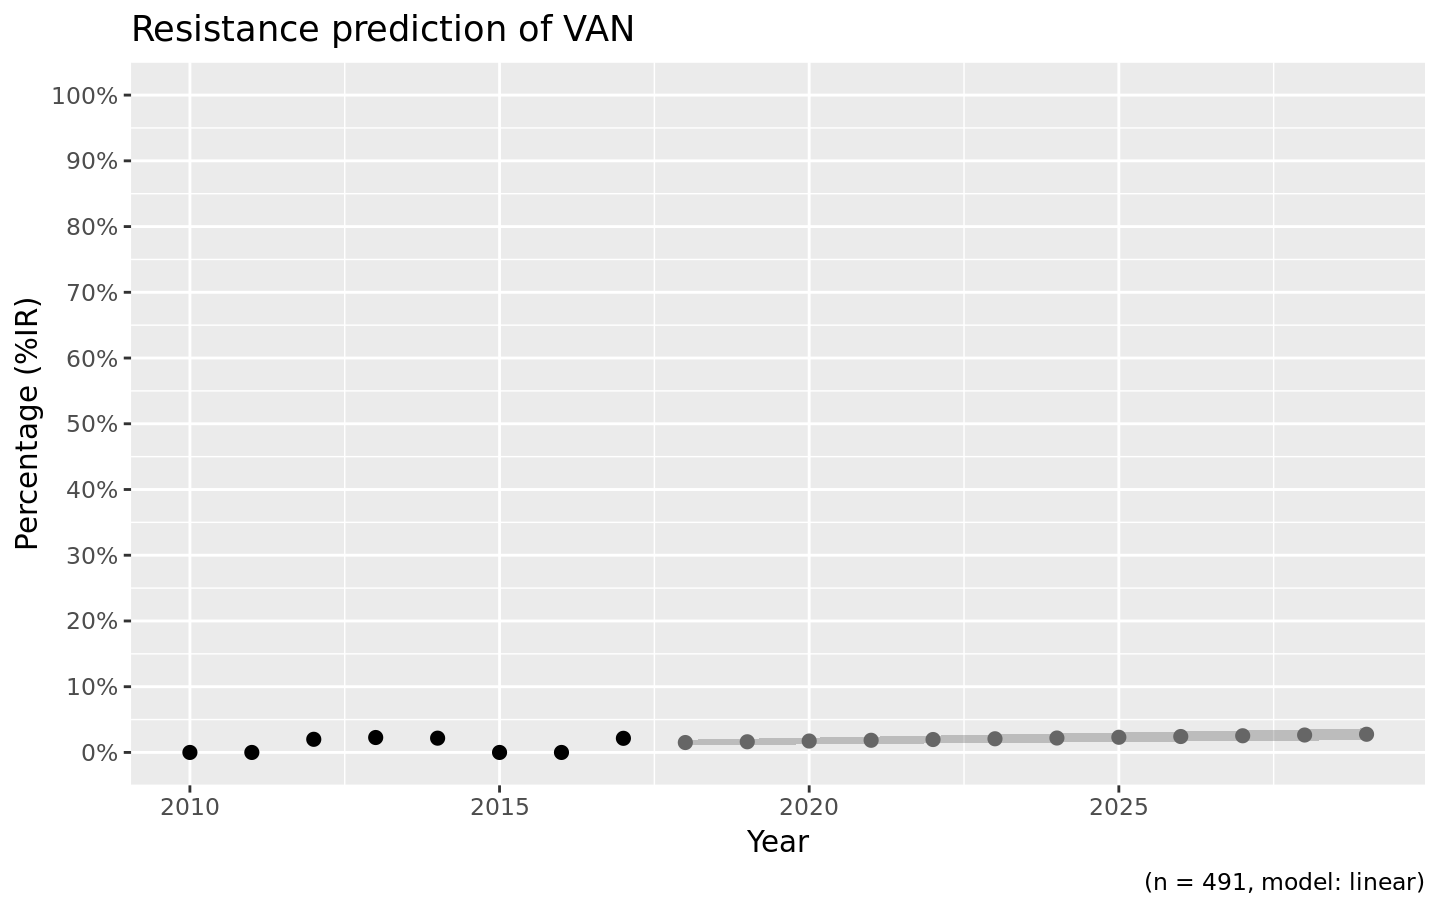
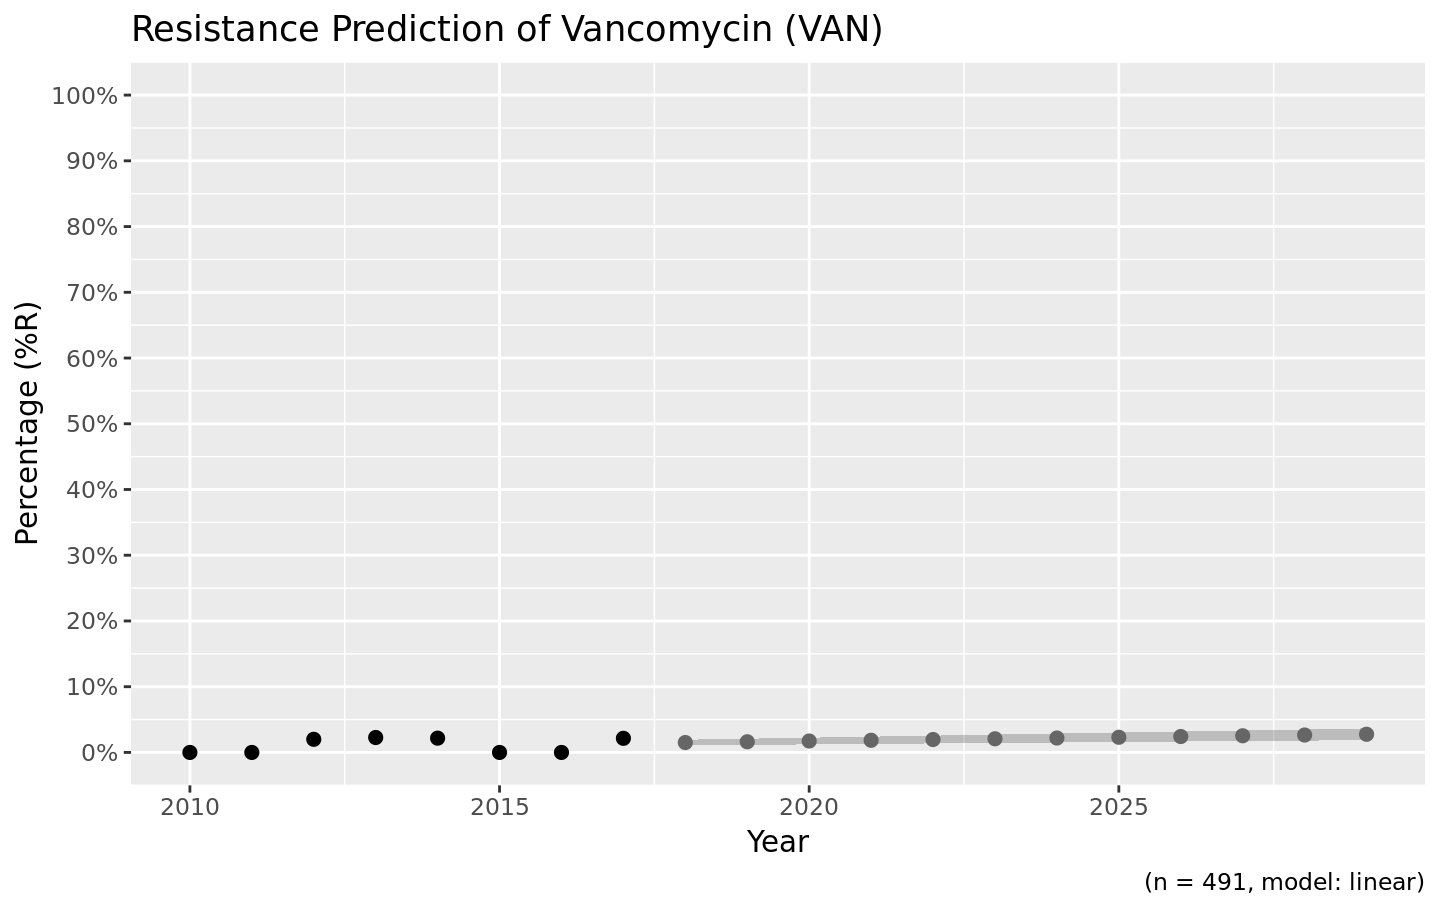
documentation fix

Changed region(s): [[0.2188, 0.0, 0.625, 0.0614], [0.0, 0.307, 0.0312, 0.614]]

diff --git a/docs/articles/resistance_predict.html b/docs/articles/resistance_predict.html
@@ -192,7 +192,7 @@
       <h1>How to predict antimicrobial resistance</h1>
                         <h4 class="author">Matthijs S. Berends</h4>
             
-            <h4 class="date">12 May 2019</h4>
+            <h4 class="date">13 May 2019</h4>
       
       
       <div class="hidden name"><code>resistance_predict.Rmd</code></div>
@@ -240,52 +240,52 @@
 #&gt; 
 #&gt; Deviance Residuals: 
 #&gt;     Min       1Q   Median       3Q      Max  
-#&gt; -2.9203  -1.3066   0.0166   0.7641   3.1984  
+#&gt; -2.6817  -1.4087  -0.5657   0.9672   3.5728  
 #&gt; 
 #&gt; Coefficients:
 #&gt;               Estimate Std. Error z value Pr(&gt;|z|)    
-#&gt; (Intercept) -222.51053   45.94675  -4.843 1.28e-06 ***
-#&gt; year           0.10973    0.02284   4.805 1.55e-06 ***
+#&gt; (Intercept) -224.39872   48.03354  -4.672 2.99e-06 ***
+#&gt; year           0.11061    0.02388   4.633 3.61e-06 ***
 #&gt; ---
 #&gt; Signif. codes:  0 '***' 0.001 '**' 0.01 '*' 0.05 '.' 0.1 ' ' 1
 #&gt; 
 #&gt; (Dispersion parameter for binomial family taken to be 1)
 #&gt; 
-#&gt;     Null deviance: 59.763  on 14  degrees of freedom
-#&gt; Residual deviance: 35.261  on 13  degrees of freedom
-#&gt; AIC: 93.537
+#&gt;     Null deviance: 61.512  on 14  degrees of freedom
+#&gt; Residual deviance: 38.692  on 13  degrees of freedom
+#&gt; AIC: 95.212
 #&gt; 
 #&gt; Number of Fisher Scoring iterations: 4</code></pre>
 <p>This text is only a printed summary - the actual result (output) of the function is a <code>data.frame</code> containing for each year: the number of observations, the actual observed resistance, the estimated resistance and the standard error below and above the estimation:</p>
 <div class="sourceCode" id="cb4"><pre class="sourceCode r"><code class="sourceCode r"><a class="sourceLine" id="cb4-1" title="1">predict_TZP</a>
 <a class="sourceLine" id="cb4-2" title="2"><span class="co">#&gt;    year      value    se_min    se_max observations   observed  estimated</span></a>
-<a class="sourceLine" id="cb4-3" title="3"><span class="co">#&gt; 1  2003 0.06250000        NA        NA           32 0.06250000 0.06179057</span></a>
-<a class="sourceLine" id="cb4-4" title="4"><span class="co">#&gt; 2  2004 0.08536585        NA        NA           82 0.08536585 0.06846623</span></a>
-<a class="sourceLine" id="cb4-5" title="5"><span class="co">#&gt; 3  2005 0.10000000        NA        NA           60 0.10000000 0.07580483</span></a>
-<a class="sourceLine" id="cb4-6" title="6"><span class="co">#&gt; 4  2006 0.05084746        NA        NA           59 0.05084746 0.08385921</span></a>
-<a class="sourceLine" id="cb4-7" title="7"><span class="co">#&gt; 5  2007 0.12121212        NA        NA           66 0.12121212 0.09268356</span></a>
-<a class="sourceLine" id="cb4-8" title="8"><span class="co">#&gt; 6  2008 0.04166667        NA        NA           72 0.04166667 0.10233276</span></a>
-<a class="sourceLine" id="cb4-9" title="9"><span class="co">#&gt; 7  2009 0.01639344        NA        NA           61 0.01639344 0.11286156</span></a>
-<a class="sourceLine" id="cb4-10" title="10"><span class="co">#&gt; 8  2010 0.09433962        NA        NA           53 0.09433962 0.12432363</span></a>
-<a class="sourceLine" id="cb4-11" title="11"><span class="co">#&gt; 9  2011 0.18279570        NA        NA           93 0.18279570 0.13677030</span></a>
-<a class="sourceLine" id="cb4-12" title="12"><span class="co">#&gt; 10 2012 0.30769231        NA        NA           65 0.30769231 0.15024926</span></a>
-<a class="sourceLine" id="cb4-13" title="13"><span class="co">#&gt; 11 2013 0.08620690        NA        NA           58 0.08620690 0.16480299</span></a>
-<a class="sourceLine" id="cb4-14" title="14"><span class="co">#&gt; 12 2014 0.15000000        NA        NA           60 0.15000000 0.18046706</span></a>
-<a class="sourceLine" id="cb4-15" title="15"><span class="co">#&gt; 13 2015 0.27272727        NA        NA           55 0.27272727 0.19726831</span></a>
-<a class="sourceLine" id="cb4-16" title="16"><span class="co">#&gt; 14 2016 0.25000000        NA        NA           84 0.25000000 0.21522295</span></a>
-<a class="sourceLine" id="cb4-17" title="17"><span class="co">#&gt; 15 2017 0.16279070        NA        NA           86 0.16279070 0.23433471</span></a>
-<a class="sourceLine" id="cb4-18" title="18"><span class="co">#&gt; 16 2018 0.25459302 0.2223385 0.2868476           NA         NA 0.25459302</span></a>
-<a class="sourceLine" id="cb4-19" title="19"><span class="co">#&gt; 17 2019 0.27597143 0.2381174 0.3138255           NA         NA 0.27597143</span></a>
-<a class="sourceLine" id="cb4-20" title="20"><span class="co">#&gt; 18 2020 0.29842630 0.2545398 0.3423128           NA         NA 0.29842630</span></a>
-<a class="sourceLine" id="cb4-21" title="21"><span class="co">#&gt; 19 2021 0.32189595 0.2716308 0.3721611           NA         NA 0.32189595</span></a>
-<a class="sourceLine" id="cb4-22" title="22"><span class="co">#&gt; 20 2022 0.34630028 0.2894072 0.4031934           NA         NA 0.34630028</span></a>
-<a class="sourceLine" id="cb4-23" title="23"><span class="co">#&gt; 21 2023 0.37154107 0.3078773 0.4352048           NA         NA 0.37154107</span></a>
-<a class="sourceLine" id="cb4-24" title="24"><span class="co">#&gt; 22 2024 0.39750288 0.3270414 0.4679643           NA         NA 0.39750288</span></a>
-<a class="sourceLine" id="cb4-25" title="25"><span class="co">#&gt; 23 2025 0.42405472 0.3468903 0.5012191           NA         NA 0.42405472</span></a>
-<a class="sourceLine" id="cb4-26" title="26"><span class="co">#&gt; 24 2026 0.45105237 0.3674044 0.5347004           NA         NA 0.45105237</span></a>
-<a class="sourceLine" id="cb4-27" title="27"><span class="co">#&gt; 25 2027 0.47834130 0.3885523 0.5681303           NA         NA 0.47834130</span></a>
-<a class="sourceLine" id="cb4-28" title="28"><span class="co">#&gt; 26 2028 0.50576012 0.4102900 0.6012302           NA         NA 0.50576012</span></a>
-<a class="sourceLine" id="cb4-29" title="29"><span class="co">#&gt; 27 2029 0.53314434 0.4325600 0.6337287           NA         NA 0.53314434</span></a></code></pre></div>
+<a class="sourceLine" id="cb4-3" title="3"><span class="co">#&gt; 1  2003 0.06250000        NA        NA           32 0.06250000 0.05486389</span></a>
+<a class="sourceLine" id="cb4-4" title="4"><span class="co">#&gt; 2  2004 0.08536585        NA        NA           82 0.08536585 0.06089002</span></a>
+<a class="sourceLine" id="cb4-5" title="5"><span class="co">#&gt; 3  2005 0.05000000        NA        NA           60 0.05000000 0.06753075</span></a>
+<a class="sourceLine" id="cb4-6" title="6"><span class="co">#&gt; 4  2006 0.05084746        NA        NA           59 0.05084746 0.07483801</span></a>
+<a class="sourceLine" id="cb4-7" title="7"><span class="co">#&gt; 5  2007 0.12121212        NA        NA           66 0.12121212 0.08286570</span></a>
+<a class="sourceLine" id="cb4-8" title="8"><span class="co">#&gt; 6  2008 0.04166667        NA        NA           72 0.04166667 0.09166918</span></a>
+<a class="sourceLine" id="cb4-9" title="9"><span class="co">#&gt; 7  2009 0.01639344        NA        NA           61 0.01639344 0.10130461</span></a>
+<a class="sourceLine" id="cb4-10" title="10"><span class="co">#&gt; 8  2010 0.05660377        NA        NA           53 0.05660377 0.11182814</span></a>
+<a class="sourceLine" id="cb4-11" title="11"><span class="co">#&gt; 9  2011 0.18279570        NA        NA           93 0.18279570 0.12329488</span></a>
+<a class="sourceLine" id="cb4-12" title="12"><span class="co">#&gt; 10 2012 0.30769231        NA        NA           65 0.30769231 0.13575768</span></a>
+<a class="sourceLine" id="cb4-13" title="13"><span class="co">#&gt; 11 2013 0.06896552        NA        NA           58 0.06896552 0.14926576</span></a>
+<a class="sourceLine" id="cb4-14" title="14"><span class="co">#&gt; 12 2014 0.10000000        NA        NA           60 0.10000000 0.16386307</span></a>
+<a class="sourceLine" id="cb4-15" title="15"><span class="co">#&gt; 13 2015 0.23636364        NA        NA           55 0.23636364 0.17958657</span></a>
+<a class="sourceLine" id="cb4-16" title="16"><span class="co">#&gt; 14 2016 0.22619048        NA        NA           84 0.22619048 0.19646431</span></a>
+<a class="sourceLine" id="cb4-17" title="17"><span class="co">#&gt; 15 2017 0.16279070        NA        NA           86 0.16279070 0.21451350</span></a>
+<a class="sourceLine" id="cb4-18" title="18"><span class="co">#&gt; 16 2018 0.23373852 0.2021578 0.2653193           NA         NA 0.23373852</span></a>
+<a class="sourceLine" id="cb4-19" title="19"><span class="co">#&gt; 17 2019 0.25412909 0.2168525 0.2914057           NA         NA 0.25412909</span></a>
+<a class="sourceLine" id="cb4-20" title="20"><span class="co">#&gt; 18 2020 0.27565854 0.2321869 0.3191302           NA         NA 0.27565854</span></a>
+<a class="sourceLine" id="cb4-21" title="21"><span class="co">#&gt; 19 2021 0.29828252 0.2481942 0.3483709           NA         NA 0.29828252</span></a>
+<a class="sourceLine" id="cb4-22" title="22"><span class="co">#&gt; 20 2022 0.32193804 0.2649008 0.3789753           NA         NA 0.32193804</span></a>
+<a class="sourceLine" id="cb4-23" title="23"><span class="co">#&gt; 21 2023 0.34654311 0.2823269 0.4107593           NA         NA 0.34654311</span></a>
+<a class="sourceLine" id="cb4-24" title="24"><span class="co">#&gt; 22 2024 0.37199700 0.3004860 0.4435080           NA         NA 0.37199700</span></a>
+<a class="sourceLine" id="cb4-25" title="25"><span class="co">#&gt; 23 2025 0.39818127 0.3193839 0.4769787           NA         NA 0.39818127</span></a>
+<a class="sourceLine" id="cb4-26" title="26"><span class="co">#&gt; 24 2026 0.42496142 0.3390173 0.5109056           NA         NA 0.42496142</span></a>
+<a class="sourceLine" id="cb4-27" title="27"><span class="co">#&gt; 25 2027 0.45218939 0.3593720 0.5450068           NA         NA 0.45218939</span></a>
+<a class="sourceLine" id="cb4-28" title="28"><span class="co">#&gt; 26 2028 0.47970658 0.3804212 0.5789920           NA         NA 0.47970658</span></a>
+<a class="sourceLine" id="cb4-29" title="29"><span class="co">#&gt; 27 2029 0.50734745 0.4021241 0.6125708           NA         NA 0.50734745</span></a></code></pre></div>
 <p>The function <code>plot</code> is available in base R, and can be extended by other packages to depend the output based on the type of input. We extended its function to cope with resistance predictions:</p>
 <div class="sourceCode" id="cb5"><pre class="sourceCode r"><code class="sourceCode r"><a class="sourceLine" id="cb5-1" title="1"><span class="kw"><a href="https://www.rdocumentation.org/packages/graphics/topics/plot">plot</a></span>(predict_TZP)</a></code></pre></div>
 <p><img src="resistance_predict_files/figure-html/unnamed-chunk-4-1.png" width="720"></p>
@@ -362,9 +362,9 @@
 <a class="sourceLine" id="cb10-6" title="6"><span class="co">#&gt; Link function: logit</span></a>
 <a class="sourceLine" id="cb10-7" title="7"></a>
 <a class="sourceLine" id="cb10-8" title="8"><span class="kw"><a href="https://www.rdocumentation.org/packages/base/topics/summary">summary</a></span>(model)<span class="op">$</span>coefficients</a>
-<a class="sourceLine" id="cb10-9" title="9"><span class="co">#&gt;                 Estimate  Std. Error   z value     Pr(&gt;|z|)</span></a>
-<a class="sourceLine" id="cb10-10" title="10"><span class="co">#&gt; (Intercept) -222.5105288 45.94675125 -4.842791 1.280277e-06</span></a>
-<a class="sourceLine" id="cb10-11" title="11"><span class="co">#&gt; year           0.1097306  0.02283874  4.804581 1.550761e-06</span></a></code></pre></div>
+<a class="sourceLine" id="cb10-9" title="9"><span class="co">#&gt;                 Estimate Std. Error   z value     Pr(&gt;|z|)</span></a>
+<a class="sourceLine" id="cb10-10" title="10"><span class="co">#&gt; (Intercept) -224.3987194 48.0335384 -4.671709 2.987038e-06</span></a>
+<a class="sourceLine" id="cb10-11" title="11"><span class="co">#&gt; year           0.1106102  0.0238753  4.632831 3.606990e-06</span></a></code></pre></div>
 </div>
 </div>
   </div>

diff --git a/docs/reference/resistance_predict.html b/docs/reference/resistance_predict.html
@@ -253,10 +253,10 @@
 
 <span class='co'># S3 method for resistance_predict</span>
 <span class='fu'><a href='https://www.rdocumentation.org/packages/graphics/topics/plot'>plot</a></span>(<span class='no'>x</span>,
-  <span class='kw'>main</span> <span class='kw'>=</span> <span class='fu'><a href='https://www.rdocumentation.org/packages/base/topics/paste'>paste</a></span>(<span class='st'>"Resistance prediction of"</span>, <span class='fu'><a href='https://www.rdocumentation.org/packages/base/topics/attributes'>attributes</a></span>(<span class='no'>x</span>)$<span class='no'>ab</span>), <span class='no'>...</span>)
+  <span class='kw'>main</span> <span class='kw'>=</span> <span class='fu'><a href='https://www.rdocumentation.org/packages/base/topics/paste'>paste</a></span>(<span class='st'>"Resistance Prediction of"</span>, <span class='no'>x_name</span>), <span class='no'>...</span>)
 
-<span class='fu'>ggplot_rsi_predict</span>(<span class='no'>x</span>, <span class='kw'>main</span> <span class='kw'>=</span> <span class='fu'><a href='https://www.rdocumentation.org/packages/base/topics/paste'>paste</a></span>(<span class='st'>"Resistance prediction of"</span>,
-  <span class='fu'><a href='https://www.rdocumentation.org/packages/base/topics/attributes'>attributes</a></span>(<span class='no'>x</span>)$<span class='no'>ab</span>), <span class='kw'>ribbon</span> <span class='kw'>=</span> <span class='fl'>TRUE</span>, <span class='no'>...</span>)</pre>
+<span class='fu'>ggplot_rsi_predict</span>(<span class='no'>x</span>, <span class='kw'>main</span> <span class='kw'>=</span> <span class='fu'><a href='https://www.rdocumentation.org/packages/base/topics/paste'>paste</a></span>(<span class='st'>"Resistance Prediction of"</span>, <span class='no'>x_name</span>),
+  <span class='kw'>ribbon</span> <span class='kw'>=</span> <span class='fl'>TRUE</span>, <span class='no'>...</span>)</pre>
     
     <h2 class="hasAnchor" id="arguments"><a class="anchor" href="#arguments"></a>Arguments</h2>
     <table class="ref-arguments">

diff --git a/docs/news/index.html b/docs/news/index.html
@@ -284,6 +284,8 @@ Please create an issue in one of our repositories if you want additions in this 
 <li>Fix for <code><a href="../reference/freq.html">freq()</a></code> for when all values are <code>NA</code>
 </li>
 <li>Fix for <code><a href="../reference/first_isolate.html">first_isolate()</a></code> for when dates are missing</li>
+<li>Improved speed of <code><a href="../reference/guess_ab_col.html">guess_ab_col()</a></code>
+</li>
 </ul>
 </div>
 <div id="other" class="section level4">

diff --git a/NEWS.md b/NEWS.md
@@ -30,6 +30,7 @@
 * Changed default settings for `age_groups()`, to let groups of fives and tens end with 100+ instead of 120+
 * Fix for `freq()` for when all values are `NA`
 * Fix for `first_isolate()` for when dates are missing
+* Improved speed of `guess_ab_col()`
 
 #### Other
 * Support for R 3.6.0
